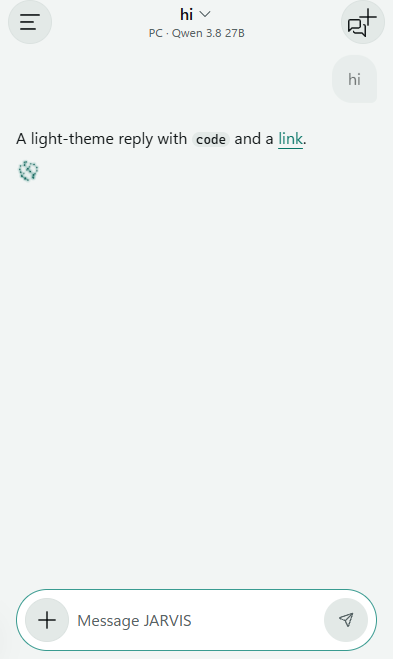
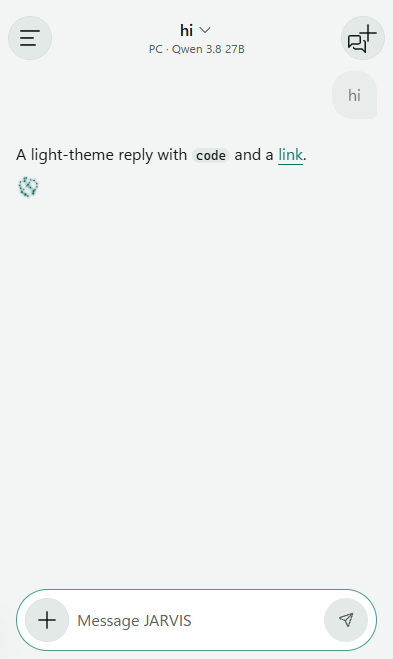
Phone: the top bar and the drawer start 16 pt lower

diff --git a/src/ui/mobile.css b/src/ui/mobile.css
@@ -19,7 +19,7 @@ button { -webkit-appearance: none; appearance: none; touch-action: manipulation;
 .m-secondary { background: var(--surface-3); color: var(--text); }
 
 /* ---- the bar ---- */
-.m-bar { flex: none; display: grid; grid-template-columns: var(--tap) 1fr var(--tap); align-items: center; min-height: calc(var(--tap) + env(safe-area-inset-top)); padding: env(safe-area-inset-top) max(var(--s-2), env(safe-area-inset-right)) 0 max(var(--s-2), env(safe-area-inset-left)); background: var(--bg); box-shadow: 0 1px 0 transparent; transition: box-shadow var(--dur-fast) var(--ease-out); }
+.m-bar { flex: none; display: grid; grid-template-columns: var(--tap) 1fr var(--tap); align-items: center; min-height: calc(var(--tap) + env(safe-area-inset-top) + var(--s-4)); padding: calc(env(safe-area-inset-top) + var(--s-4)) max(var(--s-2), env(safe-area-inset-right)) 0 max(var(--s-2), env(safe-area-inset-left)); background: var(--bg); box-shadow: 0 1px 0 transparent; transition: box-shadow var(--dur-fast) var(--ease-out); }
 #m-app[data-scrolled="true"] .m-bar { box-shadow: 0 1px 0 var(--border); } /* the hairline appears once the conversation has scrolled under the bar */
 .m-title { min-width: 0; height: var(--tap); display: grid; align-content: center; justify-items: center; padding: 0 var(--s-2); background: transparent; border: 0; border-radius: var(--r-md); color: var(--text); }
 .m-title-row { max-width: 100%; min-width: 0; display: flex; align-items: center; gap: var(--s-1); }
@@ -274,7 +274,7 @@ button.m-prow:active { background: var(--surface-3); }
 .m-drawer.open { pointer-events: auto; }
 .m-drawer-scrim { position: absolute; inset: 0; background: color-mix(in srgb, black 55%, transparent); opacity: 0; transition: opacity 200ms var(--ease-out); }
 .m-drawer.open .m-drawer-scrim { opacity: 1; }
-.m-drawer-panel { position: absolute; left: 0; top: 0; bottom: 0; width: 86%; max-width: calc(var(--s-8) * 6); display: flex; flex-direction: column; padding: env(safe-area-inset-top) var(--s-2) env(safe-area-inset-bottom) max(var(--s-2), env(safe-area-inset-left)); background: var(--bg); border-right: 1px solid var(--border); transform: translateX(-100%); transition: transform 280ms var(--ease-out); }
+.m-drawer-panel { position: absolute; left: 0; top: 0; bottom: 0; width: 86%; max-width: calc(var(--s-8) * 6); display: flex; flex-direction: column; padding: calc(env(safe-area-inset-top) + var(--s-4)) var(--s-2) env(safe-area-inset-bottom) max(var(--s-2), env(safe-area-inset-left)); background: var(--bg); border-right: 1px solid var(--border); transform: translateX(-100%); transition: transform 280ms var(--ease-out); }
 .m-drawer.open .m-drawer-panel { transform: none; }
 .m-drawer-head { flex: none; display: flex; align-items: center; justify-content: space-between; min-height: var(--s-8); padding: 0 var(--s-2); }
 .m-drawer-brand { font: 600 var(--fs-6)/var(--lh-lg) var(--display, var(--sans)); }
